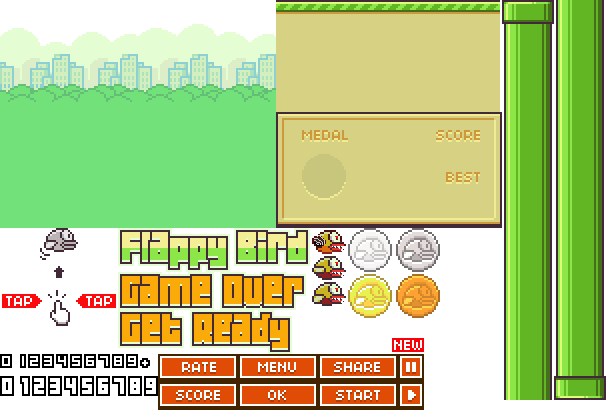
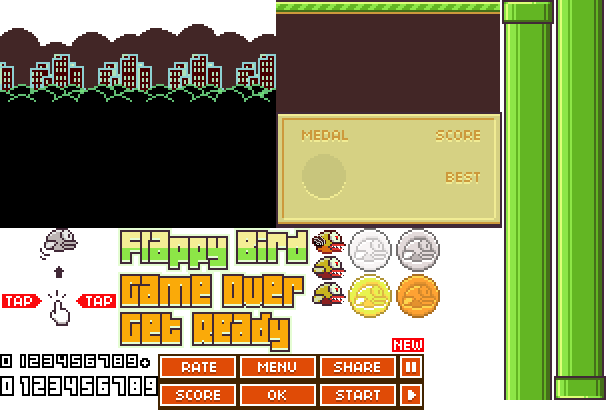
starting to add halloween theme

Changed region(s): [[0.0, 0.0293, 0.8317, 0.5561]]

diff --git a/js/flappy.js b/js/flappy.js
@@ -400,7 +400,7 @@ function onpress(evt) {
 				pipes.reset();
 				currentstate = states.Splash;
 				score = 0;
-				location.hash='game'
+				//location.hash='game'
 	//		}
 }
 			break;
@@ -473,8 +473,13 @@ function main() {
 
 		run();
 	}
-	img.src = "./res/sheet.png";
-	//img.src = "./res/sheet_halloween.png";
+
+	if (location.hash && location.hash == '#halloween') {
+		img.src = "./res/sheet_halloween.png";
+	}
+	else {
+		img.src = "./res/sheet.png";
+	}
 }
 
 function debugLog(txt) {
